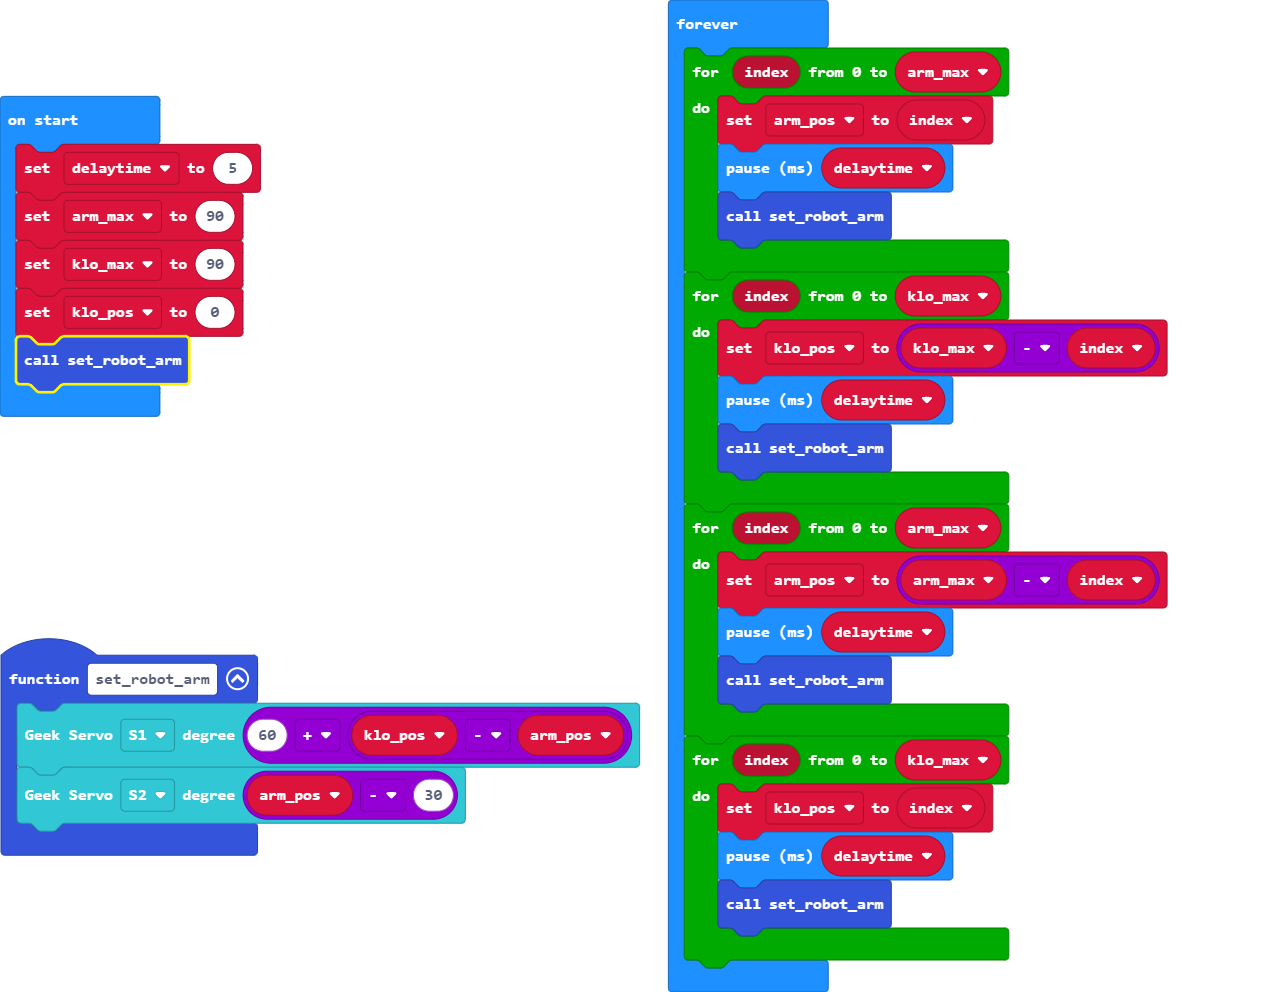
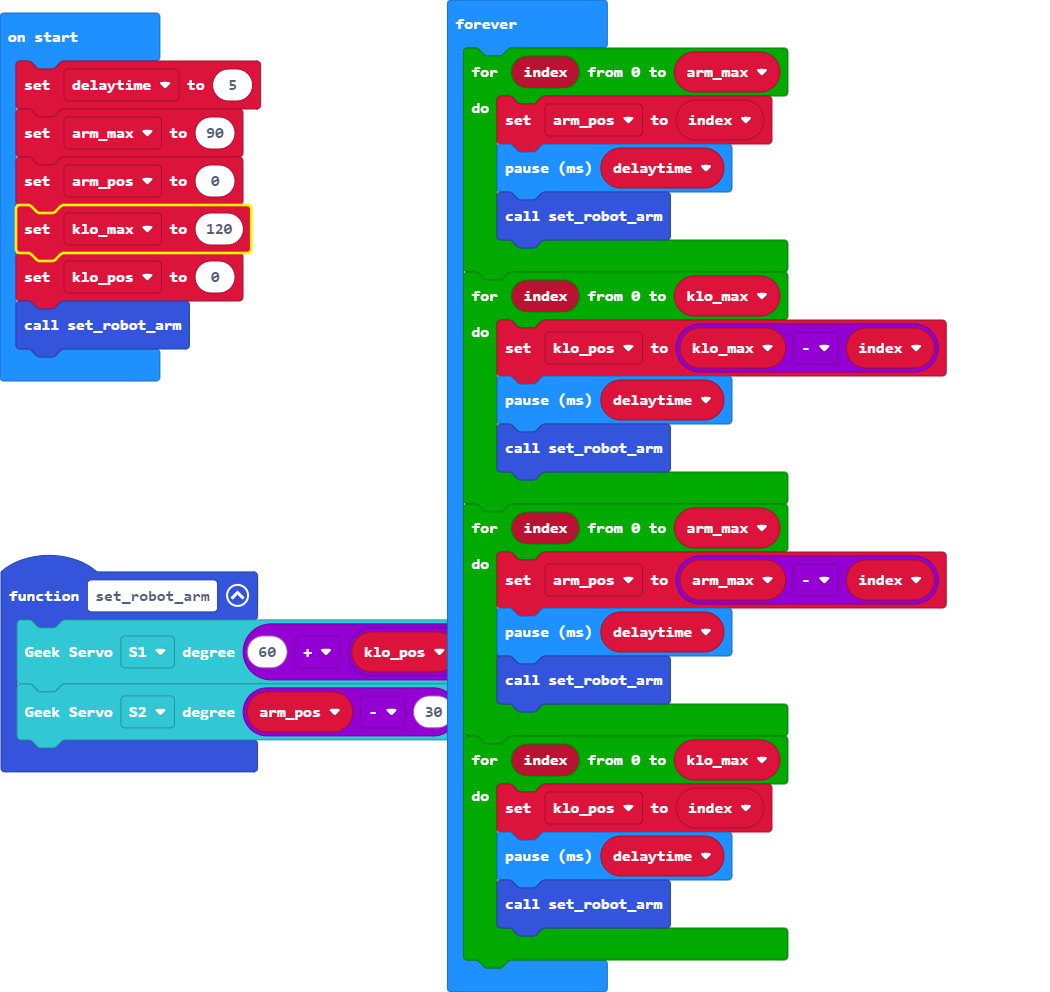
Update main.blocks, main.ts

diff --git a/main.ts b/main.ts
@@ -2,11 +2,12 @@ function set_robot_arm () {
     robotbit.GeekServo(robotbit.Servos.S1, 60 + (klo_pos - arm_pos))
     robotbit.GeekServo(robotbit.Servos.S2, arm_pos - 30)
 }
-let arm_pos = 0
 let klo_pos = 0
+let arm_pos = 0
 let delaytime = 5
 let arm_max = 90
-let klo_max = 90
+arm_pos = 0
+let klo_max = 120
 klo_pos = 0
 set_robot_arm()
 basic.forever(function () {
